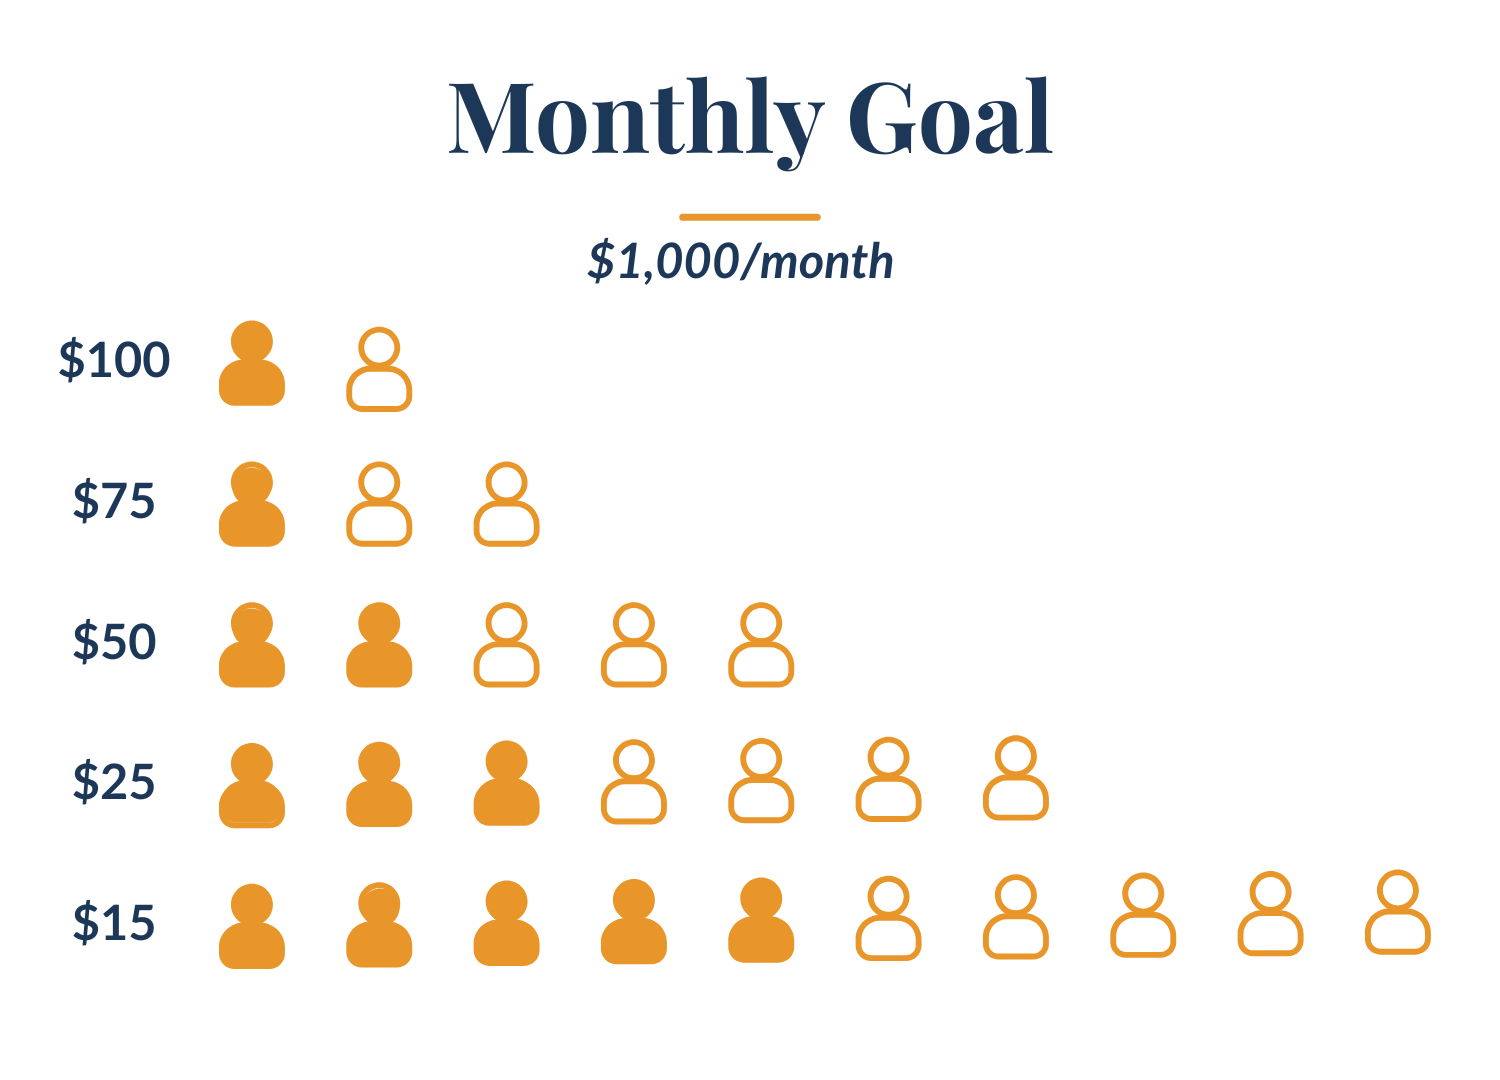
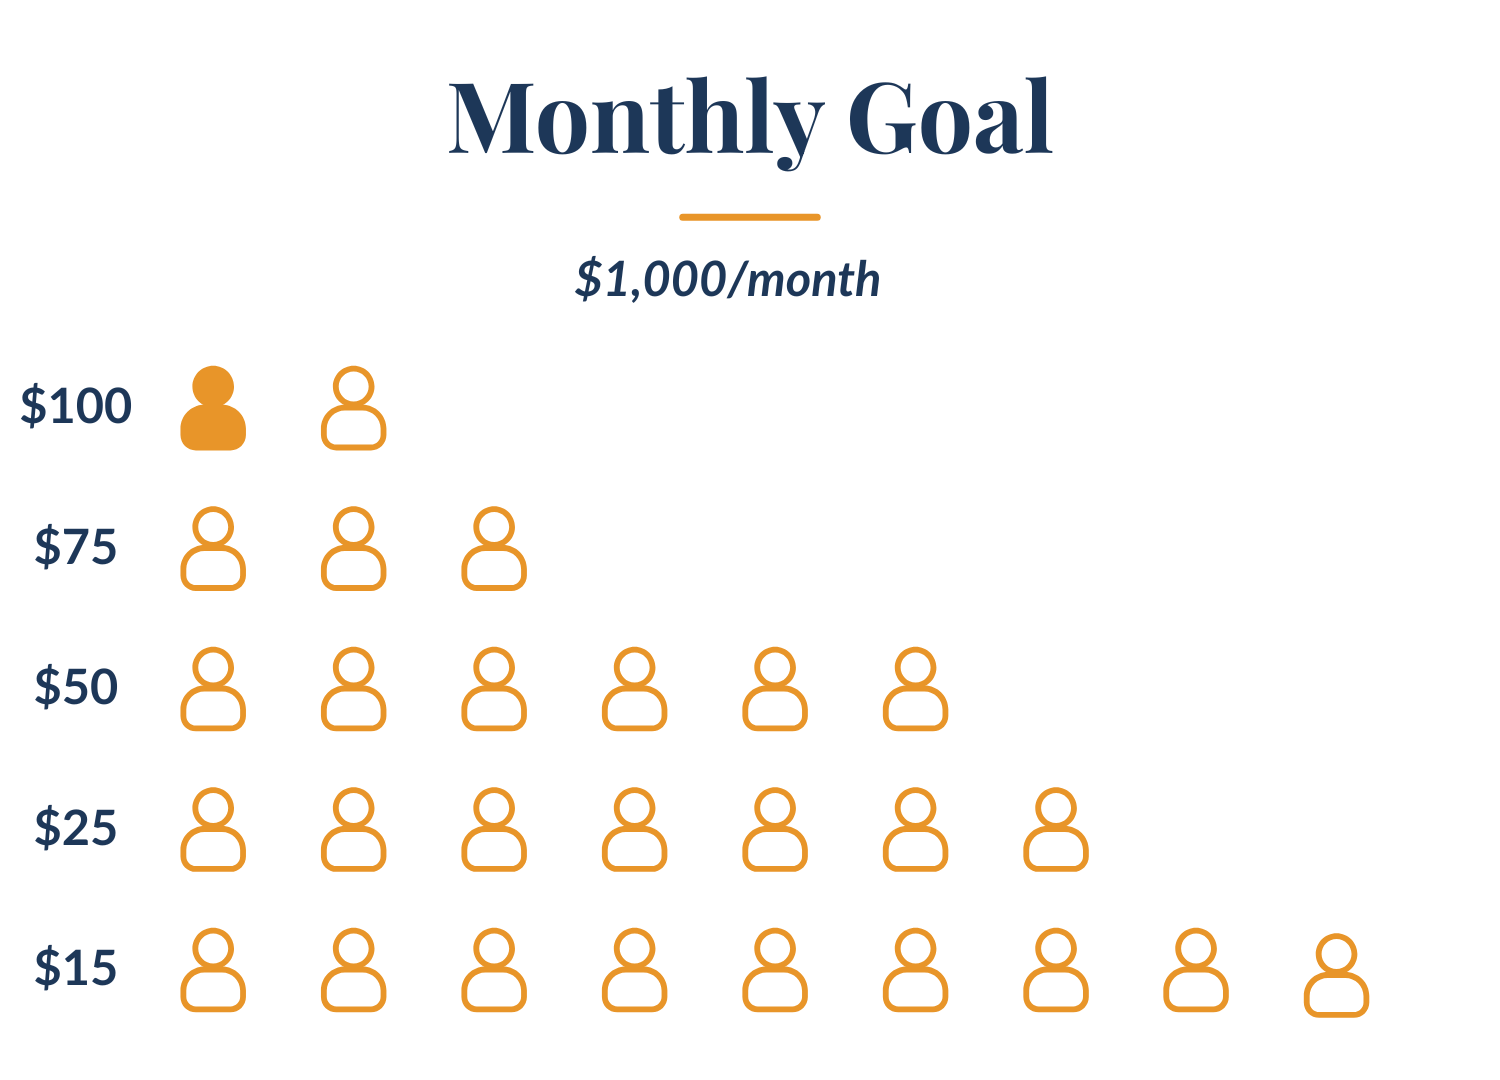
Update monthly goal image, move Where I Stand below it, set progress to 10%

diff --git a/give.html b/give.html
@@ -57,25 +57,6 @@
       <cite>2 Corinthians 9:7</cite>
     </div>
 
-    <!-- ── PROGRESS SECTION — update data-current to change the amount ── -->
-    <div style="background:var(--amber-pale);border:1px solid rgba(232,149,42,0.22);border-radius:var(--radius);padding:2rem 2.25rem;margin-bottom:2.5rem;">
-      <h2 style="text-align:center;margin-bottom:0.25rem;">Where I Stand</h2>
-      <p style="text-align:center;color:var(--text-light);font-size:0.95rem;margin-bottom:1.5rem;">My progress toward full monthly support</p>
-
-      <!-- Change these two values to update the progress bar -->
-      <div id="giving-progress" data-current="0" data-goal="1000">
-        <div style="display:flex;justify-content:space-between;align-items:baseline;margin-bottom:0.6rem;">
-          <span style="font-family:'Playfair Display',serif;font-size:1.5rem;font-weight:700;color:var(--navy);" id="progress-current">$0<span style="font-size:0.85rem;font-weight:400;color:var(--text-light);">/mo</span></span>
-          <span style="font-family:'Lato',sans-serif;font-size:0.9rem;font-weight:700;color:var(--amber);" id="progress-pct">0% funded</span>
-          <span style="font-family:'Playfair Display',serif;font-size:1.5rem;font-weight:700;color:var(--navy);">$1,000<span style="font-size:0.85rem;font-weight:400;color:var(--text-light);">/mo goal</span></span>
-        </div>
-        <div style="background:white;border-radius:50px;height:18px;overflow:hidden;box-shadow:inset 0 1px 4px rgba(30,58,95,0.1);">
-          <div id="progress-bar" style="height:100%;border-radius:50px;background:linear-gradient(90deg,var(--amber),var(--amber-light));transition:width 0.8s ease;width:0%;min-width:0;"></div>
-        </div>
-      </div>
-    </div>
-    <!-- ── END PROGRESS SECTION ── -->
-
     <h2 class="text-center" style="margin-bottom:0.5rem;">Ways to Give</h2>
     <hr class="divider">
 
@@ -114,6 +95,25 @@
     <div style="text-align:center;margin-top:2.5rem;">
       <img src="images/monthly-goal.png" alt="Monthly Goal breakdown" style="max-width:100%;border-radius:var(--radius);box-shadow:var(--shadow);">
     </div>
+
+    <!-- ── PROGRESS SECTION — update data-current to change the amount ── -->
+    <div style="background:var(--amber-pale);border:1px solid rgba(232,149,42,0.22);border-radius:var(--radius);padding:2rem 2.25rem;margin-top:2.5rem;">
+      <h2 style="text-align:center;margin-bottom:0.25rem;">Where I Stand</h2>
+      <p style="text-align:center;color:var(--text-light);font-size:0.95rem;margin-bottom:1.5rem;">My progress toward full monthly support</p>
+
+      <!-- Change these two values to update the progress bar -->
+      <div id="giving-progress" data-current="100" data-goal="1000">
+        <div style="display:flex;justify-content:space-between;align-items:baseline;margin-bottom:0.6rem;">
+          <span style="font-family:'Playfair Display',serif;font-size:1.5rem;font-weight:700;color:var(--navy);" id="progress-current">$100<span style="font-size:0.85rem;font-weight:400;color:var(--text-light);">/mo</span></span>
+          <span style="font-family:'Lato',sans-serif;font-size:0.9rem;font-weight:700;color:var(--amber);" id="progress-pct">10% funded</span>
+          <span style="font-family:'Playfair Display',serif;font-size:1.5rem;font-weight:700;color:var(--navy);">$1,000<span style="font-size:0.85rem;font-weight:400;color:var(--text-light);">/mo goal</span></span>
+        </div>
+        <div style="background:white;border-radius:50px;height:18px;overflow:hidden;box-shadow:inset 0 1px 4px rgba(30,58,95,0.1);">
+          <div id="progress-bar" style="height:100%;border-radius:50px;background:linear-gradient(90deg,var(--amber),var(--amber-light));transition:width 0.8s ease;width:10%;min-width:0;"></div>
+        </div>
+      </div>
+    </div>
+    <!-- ── END PROGRESS SECTION ── -->
 
   </div>
 </section>
